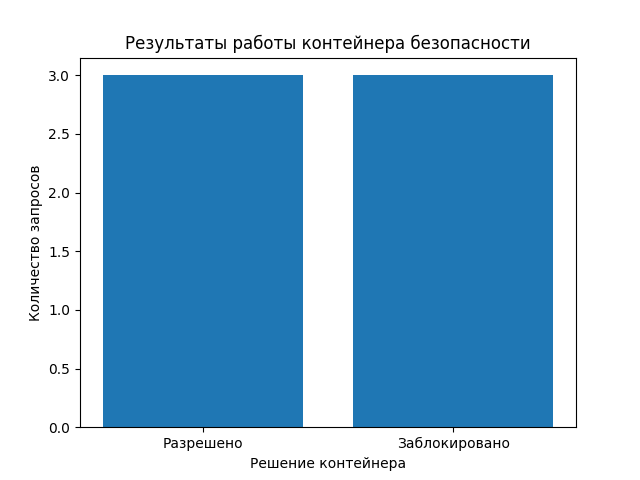
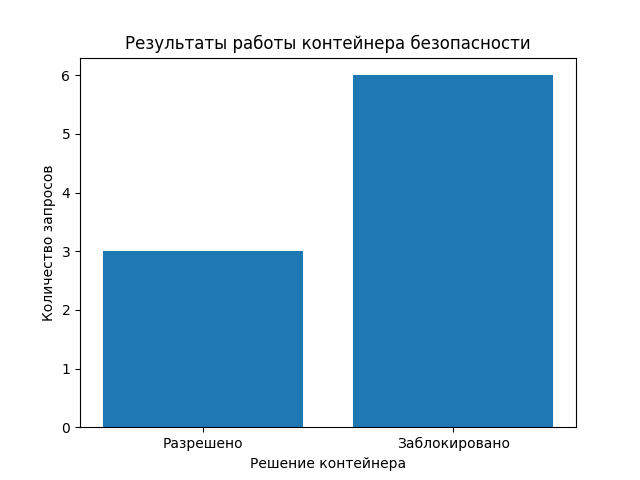
Изменения2

diff --git a/main.py b/main.py
@@ -20,7 +20,10 @@ requests_data = [
     {'user': 'sidorov', 'role': 'editor', 'action': 'write', 'target': 'tables', 'source': 'api', 'access_key': 'demo-access-key'},
     {'user': 'attacker', 'role': 'editor', 'action': 'admin', 'target': 'datasets', 'source': 'api', 'access_key': 'demo-access-key'},
     {'user': 'admin_user', 'role': 'admin', 'action': 'read', 'target': 'service_logs', 'source': 'api', 'access_key': 'demo-access-key'},
-    {'user': 'unknown_user', 'role': 'reader', 'action': 'read', 'target': 'datasets', 'source': 'api', 'access_key': 'wrong-key'}
+    {'user': 'unknown_user', 'role': 'reader', 'action': 'read', 'target': 'datasets', 'source': 'api', 'access_key': 'wrong-key'},
+    {'user': 'tarasenko', 'role': 'reader', 'action': 'admin', 'target': 'service_logs', 'source': 'api', 'access_key':'demo-access-key'},
+    {'user': 'smichek', 'role': 'editor', 'action': 'read', 'target': 'tables', 'source': 'api', 'access_key':'demo_access_key'},
+    {'user': 'markin', 'role': 'editor', 'action': 'write', 'target': 'tables', 'source': 'api', 'access_key':'wrong-key'}
 ]
 
 # Политики доступа.
